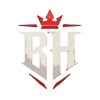
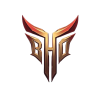
Update Discord link and FiveM server info
Changed Discord invite link and FiveM server connection details in README.md and index.html. Updated icon and logo images, archiving previous versions as iconOLD.png and logoOLD.png.

Changed region(s): [[0.18, 0.09, 0.84, 0.9]]

diff --git a/index.html b/index.html
@@ -127,7 +127,7 @@
                     <i class="fas fa-server"></i>
                     <span data-en="Choose Your Server" data-ar="اختر خادمك">Choose Your Server</span>
                 </a>
-                <a href="https://discord.gg/hh4YygkeNQ" class="btn btn-secondary" target="_blank">
+                <a href="https://discord.gg/AyjVxPaVFY" class="btn btn-secondary" target="_blank">
                     <i class="fa-brands fa-discord" style="color: #dc2626;"></i>
                     <span data-en="Join Discord" data-ar="انضم للديسكورد">Join Discord</span>
                 </a>
@@ -273,11 +273,11 @@
                         <span class="feature-tag" data-en="Housing" data-ar="نظام المنازل">Housing</span>
                     </div>
                     <div class="server-buttons">
-                        <a href="fivem://connect/cfx.re/join/6gd4kj" class="btn btn-primary">
+                        <a href="fivem://connect/cfx.re/join/5d565d" class="btn btn-primary">
                             <i class="fas fa-play"></i>
                             <span data-en="Join FiveM" data-ar="انضم لـ FiveM">Join FiveM</span>
                         </a>
-                        <button class="btn btn-secondary copy-ip" data-ip="cfx.re/join/6gd4kj">
+                        <button class="btn btn-secondary copy-ip" data-ip="cfx.re/join/5d565d">
                             <i class="fas fa-copy"></i>
                             <span data-en="Copy IP" data-ar="نسخ الـ IP">Copy IP</span>
                         </button>
@@ -730,7 +730,7 @@
                         <i class="fab fa-discord"></i>
                         <div class="method-info">
                             <h5>Discord</h5>
-                            <a href="https://discord.gg/hh4YygkeNQ" target="_blank"><span data-en="Join Now" data-ar="انضم الان"></span></a>
+                            <a href="https://discord.gg/AyjVxPaVFY" target="_blank"><span data-en="Join Now" data-ar="انضم الان"></span></a>
                         </div>
                     </div>
                     
@@ -738,7 +738,7 @@
                         <i class="fas fa-gamepad"></i>
                         <div class="method-info">
                             <h5 data-en="FiveM Server" data-ar="سيرفر FiveM">FiveM Server</h5>
-                            <span class="server-ip">cfx.re/join/6gd4kj</span>
+                            <span class="server-ip">cfx.re/join/5d565d</span>
                         </div>
                     </div>
                     
@@ -805,7 +805,7 @@
                     <h3>BrotherHood</h3>
                     <p data-en="The Best RolePlay Server in Morocco" data-ar="خادم الأدوار الأفضل في المغرب العربي">The Best RolePlay Server in Morocco</p>
                     <div class="social-links">
-                        <a href="https://discord.gg/hh4YygkeNQ" target="_blank"><i class="fa-brands fa-discord" style="color: #dc2626;"></i></a>
+                        <a href="https://discord.gg/AyjVxPaVFY" target="_blank"><i class="fa-brands fa-discord" style="color: #dc2626;"></i></a>
                     </div>
                 </div>
                 <div class="footer-section">

diff --git a/README.md b/README.md
@@ -28,4 +28,4 @@ A concise, responsive landing page for the BrotherHood FiveM and RedM roleplay s
 - Update meta tags (title, description, OG/Twitter) and images in index.html
 
 ## Links
-- Discord: https://discord.gg/hh4YygkeNQ
+- Discord: https://discord.gg/AyjVxPaVFY
